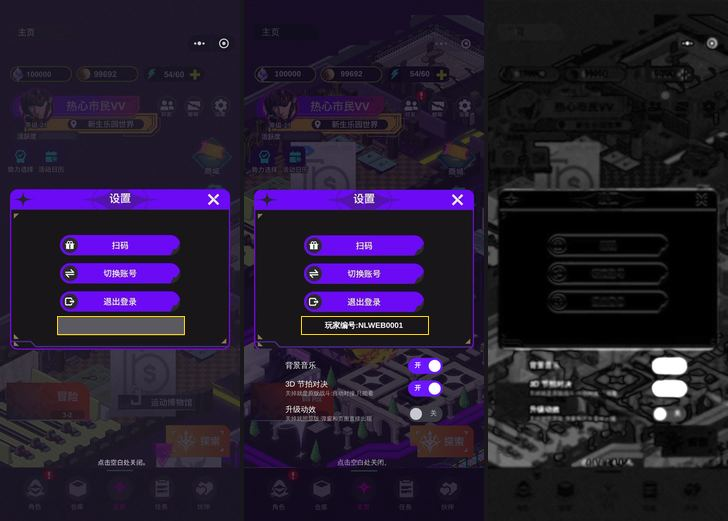
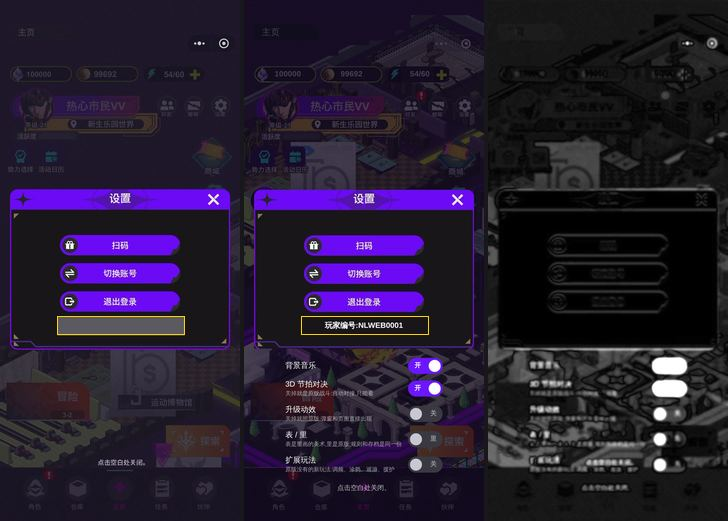
走查:各组流程在表皮肤下再走一遍;逐页对照重跑
- 走查原来只有「冒险到补给」一组在表里跑。现在登录、任务与剧情、角色仓库伙伴、
  外围界面、原版战斗、3D 战斗、2D 退路、扩展玩法这 8 组也在表里各走一遍
  (只对某一面成立的三组除外)
- 逐页对照重跑:里的平均相似度仍是 97.0%。设置页多了「扩展玩法」一行,
  活动日历的高亮日期跟着今天变,其余只有动画相位的差别

Claude-Session: https://claude.ai/code/session_01QH6ahgY464BoV1ghDwbxY7

diff --git a/docs/fidelity/README.md b/docs/fidelity/README.md
@@ -17,7 +17,7 @@
 | 剧情:选项 | 0:36.0 | 90.5% | 15.0% | [08_story_choice](img/08_story_choice.jpg) |
 | 任务:主线与支线 | 1:21.0 | 92.8% | 14.0% | [13_task_sections](img/13_task_sections.jpg) |
 | 赠礼 | 2:10.0 | 94.2% | 12.6% | [25_partner_gift](img/25_partner_gift.jpg) |
-| 补给:结果 | 5:19.5 | 93.3% | 11.9% | [67_supply_result](img/67_supply_result.jpg) |
+| 补给:结果 | 5:19.5 | 93.2% | 12.1% | [67_supply_result](img/67_supply_result.jpg) |
 | 玩法 | 5:47.0 | 94.3% | 10.4% | [70_modes](img/70_modes.jpg) |
 | 每日委托 | 1:59.0 | 94.4% | 10.1% | [24_partner_daily](img/24_partner_daily.jpg) |
 | 关卡列表 | 4:37.0 | 94.1% | 8.8% | [50_stages](img/50_stages.jpg) |
@@ -32,21 +32,21 @@
 | 权益加成 | 3:16.0 | 97.4% | 4.9% | [31_role_perks](img/31_role_perks.jpg) |
 | 好友:空 | 6:31.5 | 97.1% | 4.7% | [84_friends_empty](img/84_friends_empty.jpg) |
 | 装备详情 | 4:03.0 | 96.8% | 4.6% | [42_gear_detail](img/42_gear_detail.jpg) |
+| 主页:线下引导询问 | 0:07.0 | 95.9% | 4.0% | [03_home_prompt](img/03_home_prompt.jpg) |
 | 好友列表 | 6:35.0 | 97.9% | 4.0% | [85_friends_list](img/85_friends_list.jpg) |
-| 主页:线下引导询问 | 0:07.0 | 96.0% | 4.0% | [03_home_prompt](img/03_home_prompt.jpg) |
 | 任务:任务页签(引导中) | 0:18.0 | 97.2% | 3.4% | [06_mission_task_guide](img/06_mission_task_guide.jpg) |
+| 设置 | 6:54.5 | 96.1% | 2.9% | [89_settings](img/89_settings.jpg) |
 | 日历筛选 | 6:16.0 | 97.0% | 2.9% | [81_cal_filter](img/81_cal_filter.jpg) |
 | 邮件 | 6:40.5 | 95.4% | 2.8% | [87_mail](img/87_mail.jpg) |
 | 商城:购买窗 | 4:53.5 | 97.6% | 2.8% | [62_shop_buy](img/62_shop_buy.jpg) |
 | 获得物品 | 1:02.0 | 96.4% | 2.4% | [10_reward](img/10_reward.jpg) |
-| 设置 | 6:54.5 | 96.3% | 2.2% | [89_settings](img/89_settings.jpg) |
+| 主页:引导提示 | 0:12.0 | 95.0% | 2.2% | [04_home_guide](img/04_home_guide.jpg) |
 | 任务:日常(引导中) | 0:13.5 | 94.2% | 2.0% | [05_mission_daily_guide](img/05_mission_daily_guide.jpg) |
 | 选择芯片 | 3:50.5 | 98.6% | 1.9% | [36_chip_win](img/36_chip_win.jpg) |
-| 主页:引导提示 | 0:12.0 | 95.0% | 1.7% | [04_home_guide](img/04_home_guide.jpg) |
 | 出示互动码 | 1:23.0 | 97.0% | 1.7% | [14_qr](img/14_qr.jpg) |
+| 活动日历 | 6:12.0 | 97.2% | 1.7% | [80_calendar](img/80_calendar.jpg) |
 | 仓库:道具 | 3:56.0 | 99.0% | 1.0% | [40_bag_item](img/40_bag_item.jpg) |
 | 绑定会员 | 7:18.5 | 98.6% | 1.0% | [94_bind_win](img/94_bind_win.jpg) |
-| 活动日历 | 6:12.0 | 97.5% | 0.9% | [80_calendar](img/80_calendar.jpg) |
 | 商城:材料 | 4:56.0 | 97.6% | 0.8% | [61_shop_mat](img/61_shop_mat.jpg) |
 | 任务详情 | 0:19.0 | 98.0% | 0.7% | [07_task_detail](img/07_task_detail.jpg) |
 | 物品说明 | 1:13.0 | 95.8% | 0.6% | [12_item_info](img/12_item_info.jpg) |

diff --git a/docs/PLAN.md b/docs/PLAN.md
@@ -112,7 +112,7 @@ PR1 里的保真度 ──┬── PR2 动效套件 ────────┐
 - [x] 页面两种画法的接口:页面可以另写一个 `renderBiao`,表会用它;没写的共用 `render`。**目前还没有哪个页面写了 `renderBiao`**——那些用录屏整帧做底图的页面(角色、伙伴详情、排行榜、补给等)在表里还是原来的底图,只是压了一层调子。这是 PR5 的活。(Claude)
 - [x] 主页左侧的「表 / 里」翻面按钮,像素块转场;「设置」里也有一行。翻面只改皮肤,存档别的都不变。(Claude)
 - [x] 走查:加了一组翻面流程;另外把同一组步骤在两种皮肤下各跑一遍,规则用的随机数(统一走 `NL.rand`)换成同一个固定序列,检查跑完的存档逐项相同。(Claude)
-- [ ] **没做**:全部 9 组流程在表皮肤下各跑一遍(现在只跑了翻面流程和存档对比那一组)。
+- [x] 走查把各组流程在表皮肤下再走一遍(只对某一面成立的几组除外),按钮都点得到、检查都过。(PR5 时补上的)
 
 验收:翻面后每个页面都能正常操作;两种皮肤的存档相同。
 

diff --git a/README.md b/README.md
@@ -121,7 +121,7 @@ python3 tools/compare.py
 
 ## 怎么验证
 
-`tools/walkthrough.cjs` 会在无头浏览器里把 12 组流程各走一遍,任何脚本报错、点不到的按钮或不符合预期的结果都会让它失败,并把画面截图存到 `.work/shots/`。截图是 720×1562,和录屏同尺寸,可以直接并排比。
+`tools/walkthrough.cjs` 会在无头浏览器里把 12 组流程各走一遍(其中 8 组在表皮肤下再走一遍,整个跑完约 7 分钟),任何脚本报错、点不到的按钮或不符合预期的结果都会让它失败,并把画面截图存到 `.work/shots/`。截图是 720×1562,和录屏同尺寸,可以直接并排比。
 
 ```bash
 node tools/walkthrough.cjs
